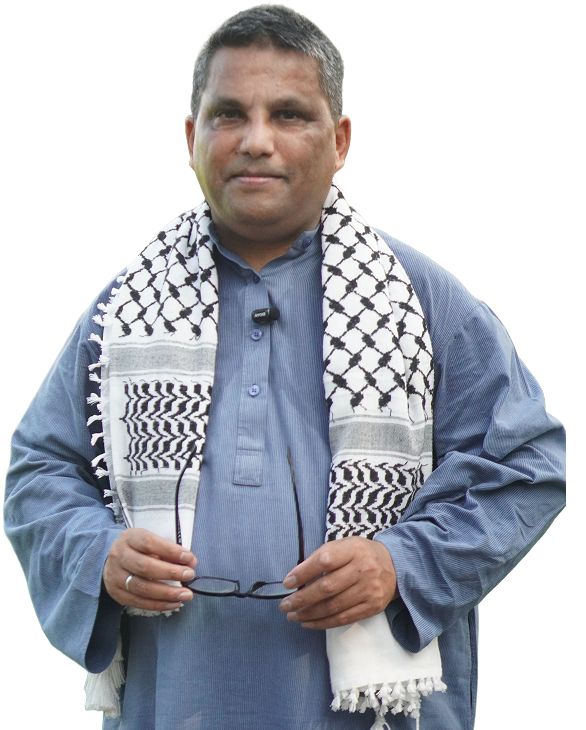
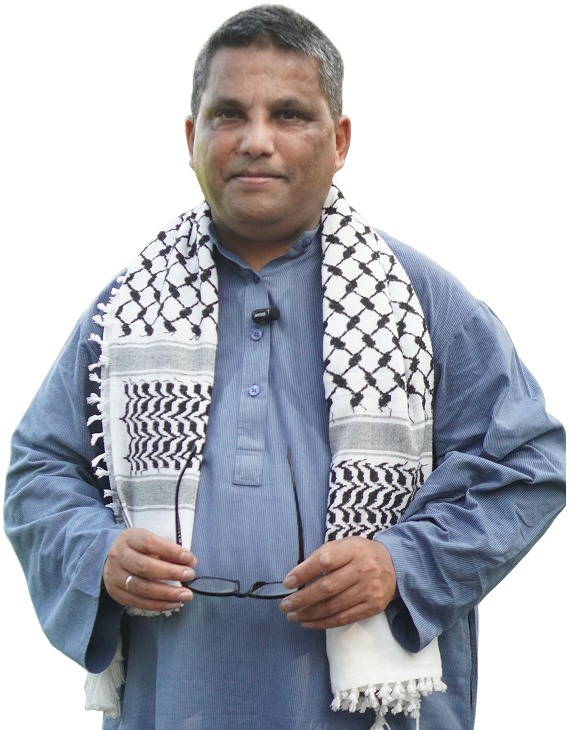
Update done

diff --git a/app/components/Home/HeroSection.jsx b/app/components/Home/HeroSection.jsx
@@ -39,7 +39,7 @@ const HeroSection = () => {
             <Image
               src="/assets/images/hero-img.png"
               alt="Hero Image"
-              width={587}
+              width={570}
               height={730}
             />
           </div>

diff --git a/app/styles/style.css b/app/styles/style.css
@@ -34,7 +34,7 @@
   position: absolute;
   right: 0;
   bottom: 0;
-  width: 587px;
+  width: 560px;
 }
 .hero-right-img img {
   width: 100%;
